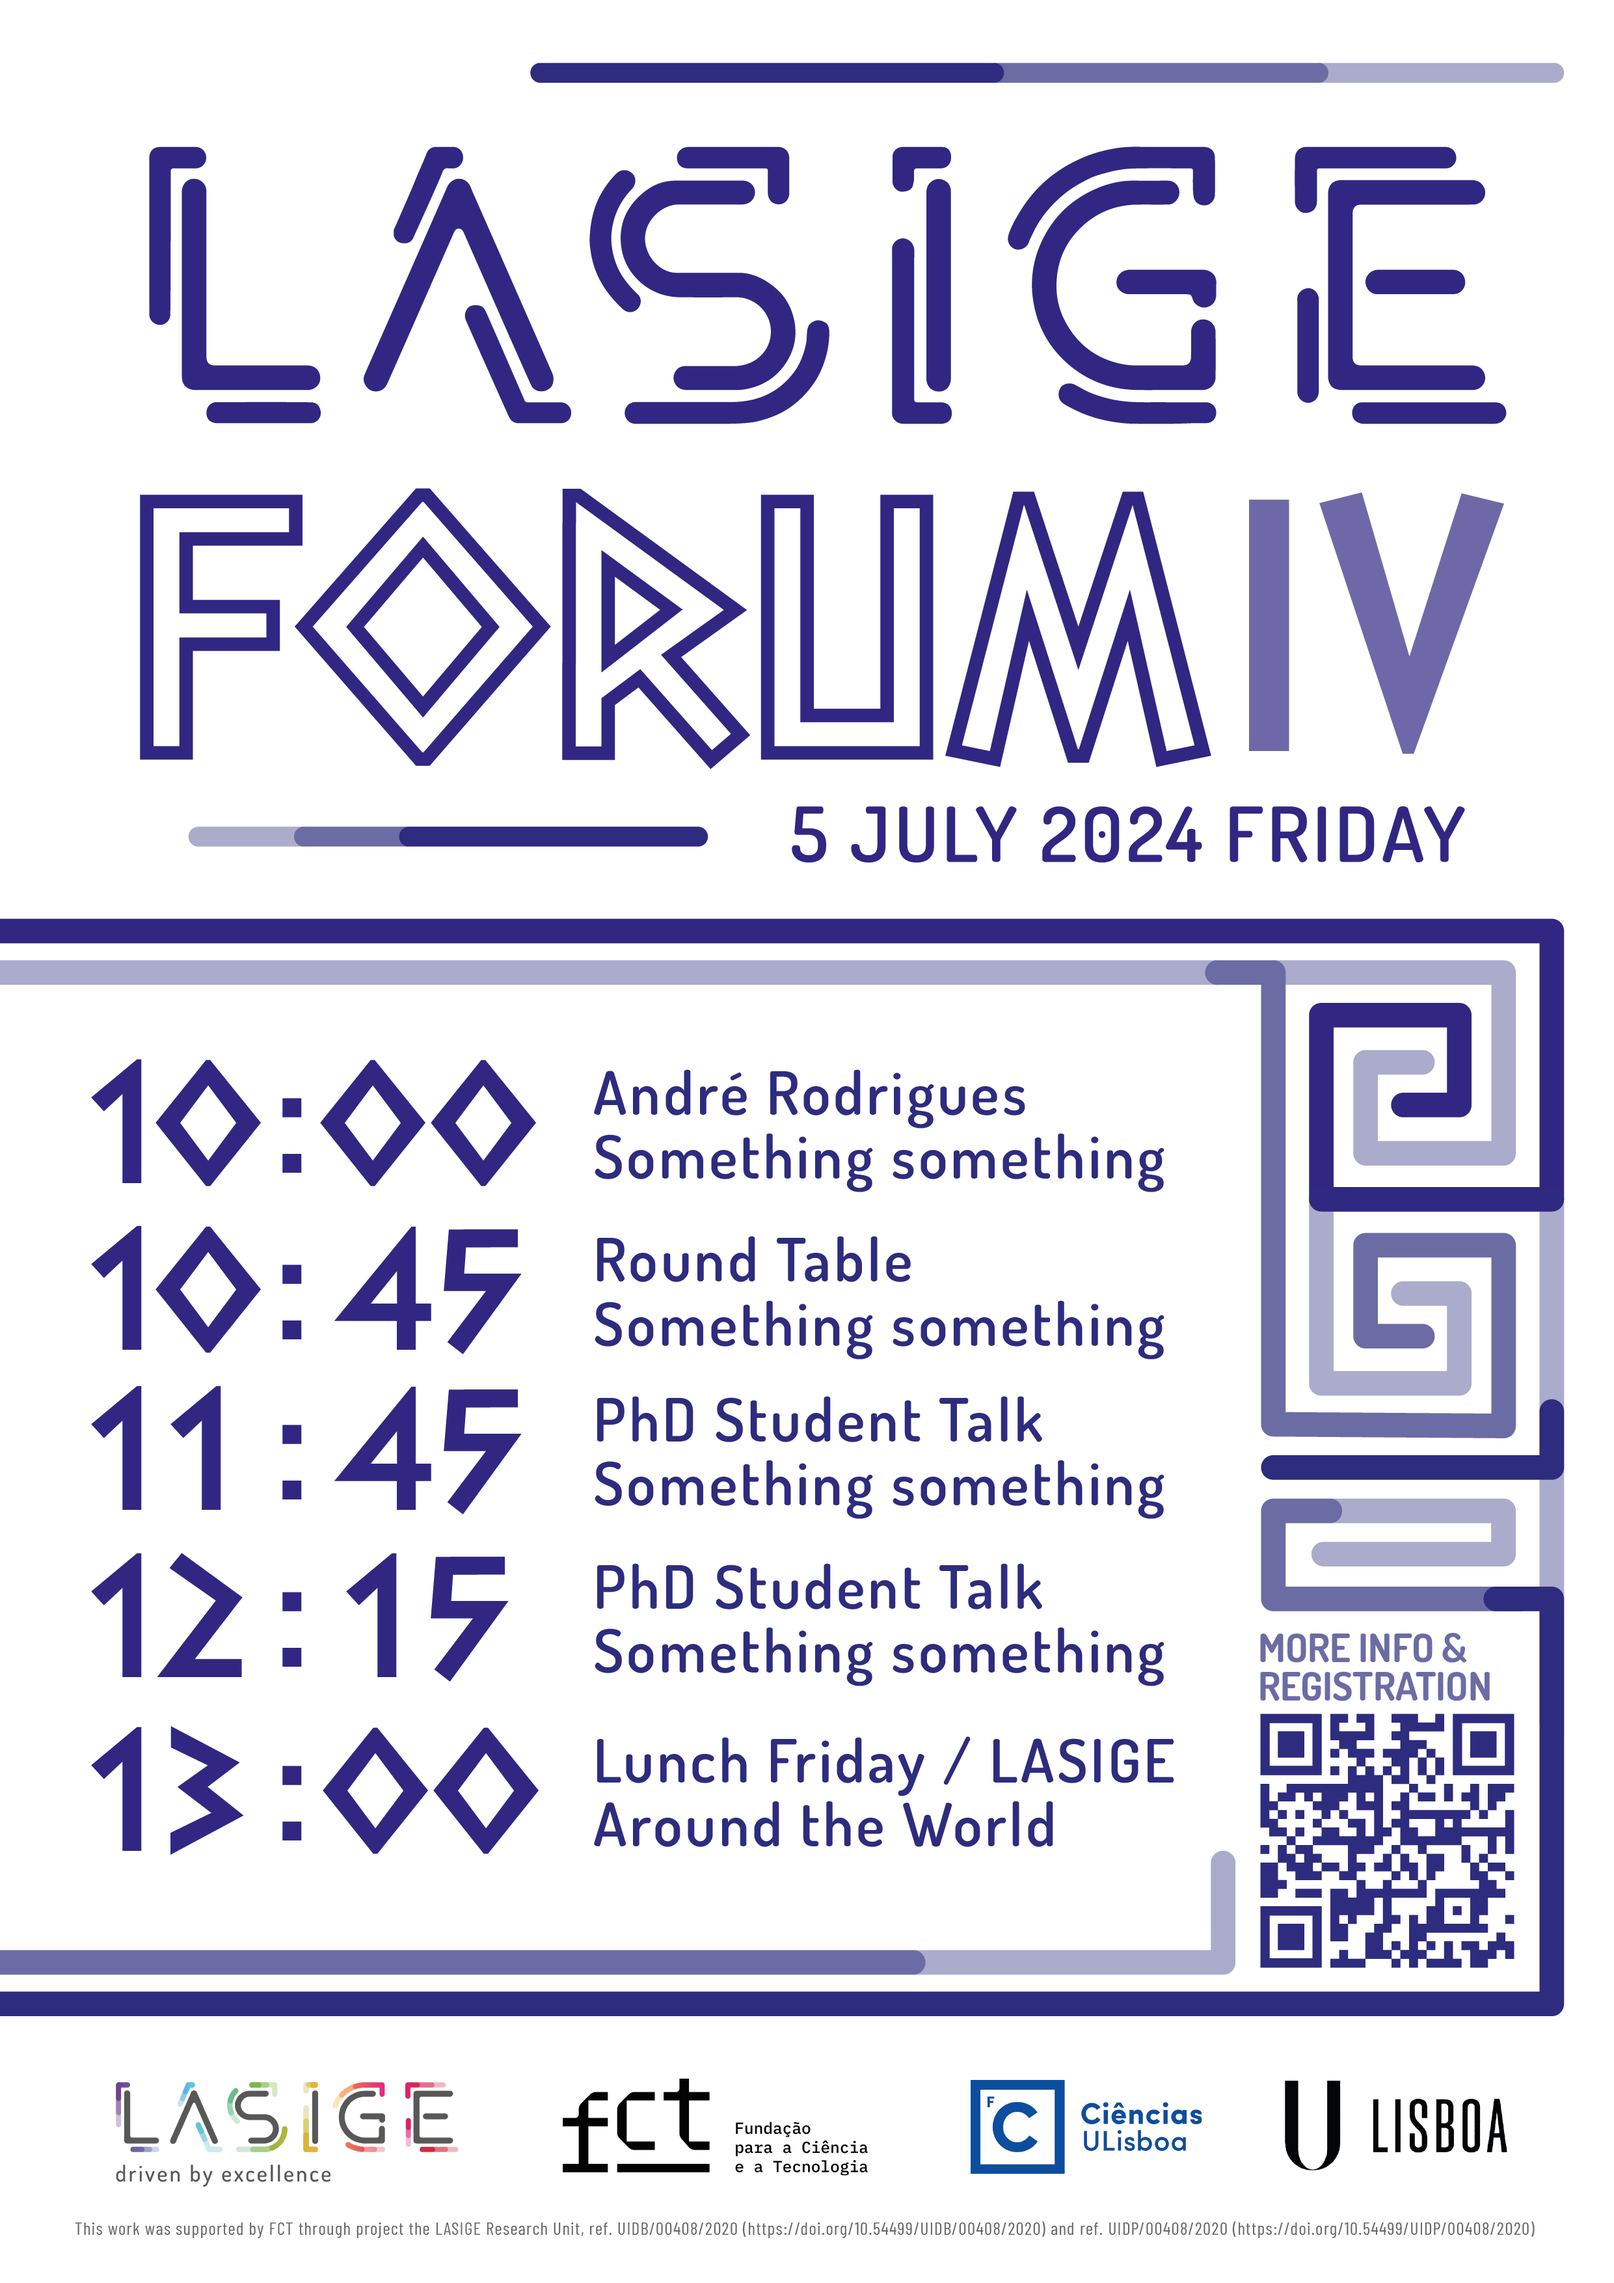
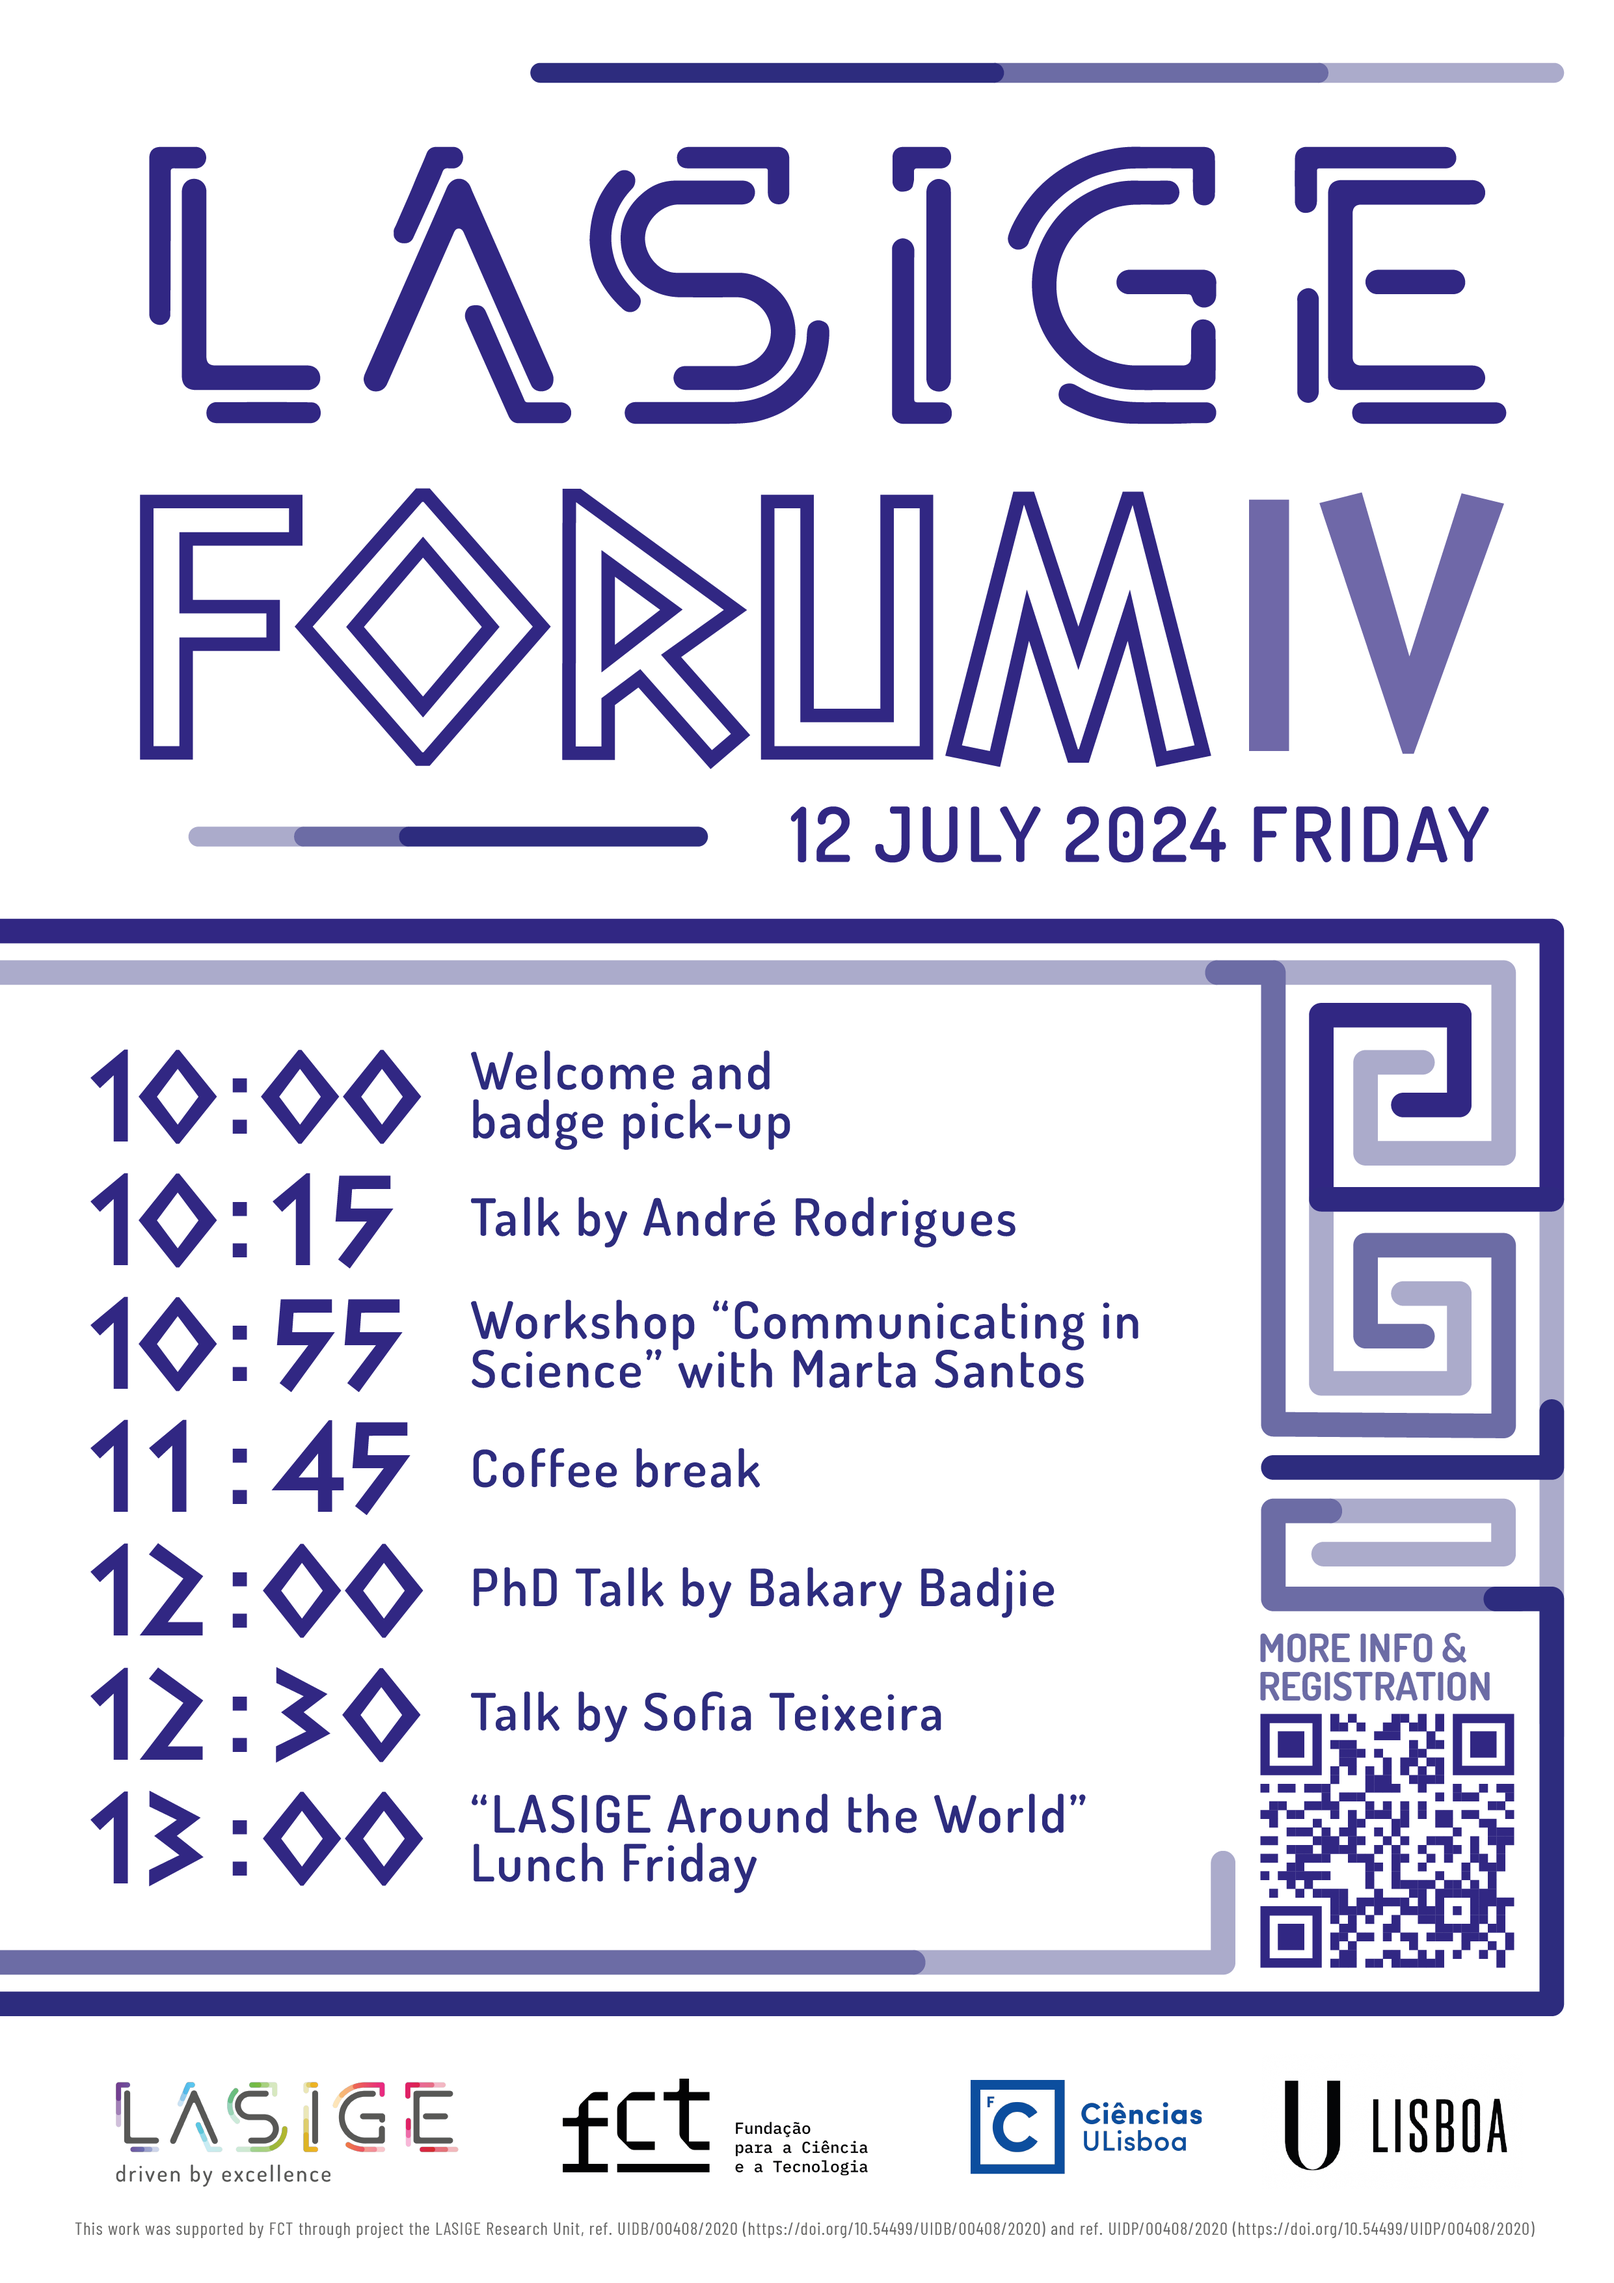
added program forum 2024

diff --git a/js/forum.js b/js/forum.js
@@ -102,8 +102,8 @@ function showForumInfo(forum = -1) {
             $("#forum_title").text("LASIGE Forum");
             $("#forum_subtitle").text("4th Edition");
             $("#forum_text").text("Expand your horizons with feedback from colleagues and experts beyond your field. Attend workshops on essential tools for your Ph.D. and seize the opportunity to present your work to both university and external audiences.");
-            $("#forum_main").attr("style", "display: none;");
-            //$("#forum_img").attr("src", "assets/img/events/Forum2024/schedule.png");
+            //$("#forum_main").attr("style", "display: none;");
+            $("#forum_img").attr("src", "assets/img/events/Forum2024/schedule.png");
             $("#forum_date").text("Date: July 12th 2024");
             $("#forum_location").text("Location: 6.3.27");
             //$("#forum_more").attr("href", "https://discord.gg/n53AfFnRSn");
@@ -151,7 +151,6 @@ function showForumImage(forum = -1) {
                     $("#forum_talks").html(``);
                     $("#forum_media").html(``);
                     $("#forum_main").html(`<img class="img-fluid d-block mx-auto " src="assets/img/events/Forum2022/Forum-panel.png" alt="... " />`);
-
                     break;
                 case 3:
                     $("#forum_media").html(``);
